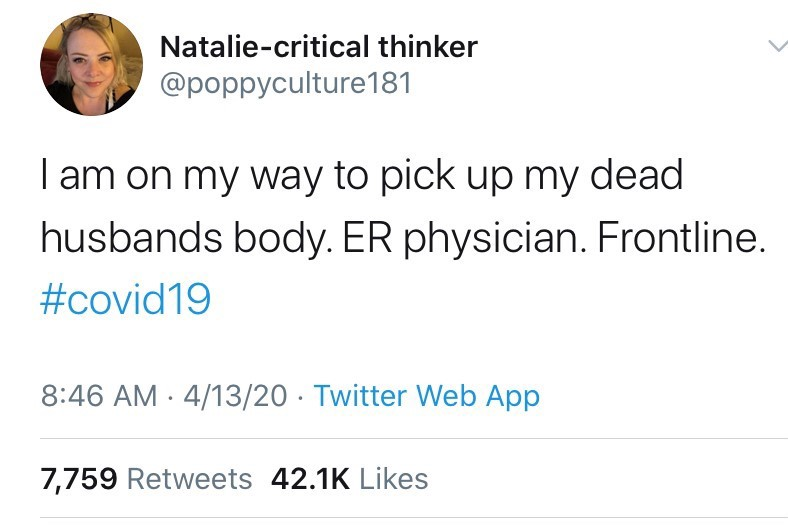
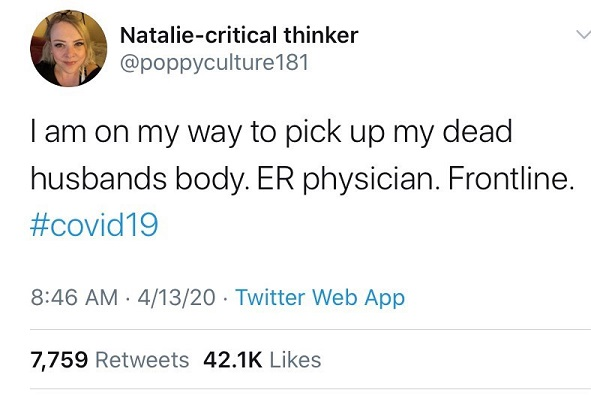
china

diff --git a/content/china/main.md b/content/china/main.md
@@ -1,0 +1,107 @@
++++
+# A Demo section created with the Blank widget.
+# Any elements can be added in the body: https://sourcethemes.com/academic/docs/writing-markdown-latex/
+# Add more sections by duplicating this file and customizing to your requirements.
+
+widget = "blank"  # See https://sourcethemes.com/academic/docs/page-builder/
+headless = true  # This file represents a page section.
+active = true  # Activate this widget? true/false
+weight = 15  # Order that this section will appear.
+
+# title = "Demos"
+# subtitle = ""
+
+[design]
+  # Choose how many columns the section has. Valid values: 1 or 2.
+  columns = "1"
+
+[design.background]
+  # Apply a background color, gradient, or image.
+  #   Uncomment (by removing `#`) an option to apply it.
+  #   Choose a light or dark text color by setting `text_color_light`.
+  #   Any HTML color name or Hex value is valid.
+
+  # Background color.
+  # color = "navy"
+
+  # Background gradient.
+  # gradient_start = "DeepSkyBlue"
+  # gradient_end = "SkyBlue"
+
+  # Background image.
+  # image = "headers/bubbles-wide.jpg"  # Name of image in `static/img/`.
+  # image_darken = 0.6  # Darken the image? Range 0-1 where 0 is transparent and 1 is opaque.
+  # image_size = "cover"  #  Options are `cover` (default), `contain`, or `actual` size.
+  # image_position = "center"  # Options include `left`, `center` (default), or `right`.
+  # image_parallax = true  # Use a fun parallax-like fixed background effect? true/false
+
+  # Text color (true=light or false=dark).
+  # text_color_light = true
+
+[design.spacing]
+  # Customize the section spacing. Order is top, right, bottom, left.
+  padding = ["0px", "0", "0px", "0"]
+
+[advanced]
+ # Custom CSS. 
+ css_style = ""
+
+ # CSS class.
+ css_class = ""
+
++++
+
+<figure style="margin: 0"><img src="beijing.jpg" /><figcaption style="text-align: right;">Beijing, China</figcaption></figure>
+
+# China Recommendations
+
+For anyone who wants to learn a bit more about China but doesn't know where to start, I've put together a few recommendations for books, movies, and other resources.
+
+Jump to:
+* <a href="#books" style="color:black">Books</a>
+* <a href="#movies" style="color:black">Movies</a>
+* <a href="#podcasts" style="color:black">Podcasts</a>
+* <a href="#online" style="color:black">Online Resources</a>
+
+&nbsp;  
+
+## <a name="books">Books</a>
+
+|                                                              |                                                              |
+| ------------------------------------------------------------ | ------------------------------------------------------------ |
+| <div style="width:150px"><a href="https://www.hup.harvard.edu/catalog.php?isbn=9780674725867" target="_blank"><img src="deng.jpg" alt="Deng Xiaoping" width="150px"/></a></div> | <a href="https://www.hup.harvard.edu/catalog.php?isbn=9780674725867" target="_blank" style="color:black"><h3>Deng Xiaoping and the Transformation of China</h3></a><p style="font-size:120%;">By Ezra Vogel (2011)<br/><br/>This biography of Deng Xiaoping offers one of the best accounts of China's economic and political transformation in the 1980s and 1990s. |
+| <a href="https://www.penguinrandomhouse.com/books/26101/factory-girls-by-leslie-t-chang/" target="_blank"><img src="factory.jpg" alt="Factory Girls" width="150px"/></a> | <a href="https://www.penguinrandomhouse.com/books/26101/factory-girls-by-leslie-t-chang/" target="_blank" style="color:black"><h3>Factory Girls: From Village to City in a Changing China</h3></a><p style="font-size:120%;">By Leslie Chang (2009)<br/><br/>If you're interested in understanding more about the lives and aspirations of the factory workers behind the "Made in China" label, this book based on extensive interviews with young women working in southern China offers one of the best accounts. |
+| <a href="https://www.penguinrandomhouse.com/books/161758/wealth-and-power-by-orville-schell-and-john-delury/" target="_blank"><img src="wealth.jpg" alt="Wealth and Power" width="150px"/> | <a href="https://www.penguinrandomhouse.com/books/161758/wealth-and-power-by-orville-schell-and-john-delury/" target="_blank" style="color:black"><h3>Wealth and Power: China's Long March to the Twenty-First Century</h3></a><p style="font-size:120%;">By Orville Schell and John Delury (2013)<br/><br/>A single powerful national narrative dominates in China: the world's greatest civilization humiliated by a century of foreign incursions finally returning to its rightful place as a global superpower. This book offers the best account of this narrative and how it fundamentally shapes the actions of the CCP leadership today. |
+| <a href="https://www.penguinrandomhouse.com/books/204464/china-in-ten-words-by-yu-hua-translated-by-allan-h-barr/" target="_blank"><img src="ten_words.jpg" alt="China in Ten Words" width="150px"/> | <a href="https://www.penguinrandomhouse.com/books/204464/china-in-ten-words-by-yu-hua-translated-by-allan-h-barr/" target="_blank" style="color:black"><h3>China in Ten Words</h3></a><p style="font-size:120%;">By Yu Hua (2010)<br/><br/>This short nonfiction book by one of China's most famous novelists offers a glimpse into the lived experiences of several formative episodes in the country's recent history, including the Cultural Revolution and Tiananmen Square. |
+| <a href="https://www.harpercollins.com/9780061998089/the-party/" target="_blank"><img src="party.jpg" alt="The Party" width="150px"/> | <a href="https://www.harpercollins.com/9780061998089/the-party/" target="_blank" style="color:black"><h3>The Party: The Secret World of China's Communist Rulers</h3></a><p style="font-size:120%;">By Richard McGregor (2010)<br/><br/>This is probably the single best book for anyone who wants to understand how the Chinese Communist Party works today. |
+
+&nbsp;  
+## <a name="movies">Movies</a>
+
+|                                                              |                                                              |
+| ------------------------------------------------------------ | ------------------------------------------------------------ |
+| <div style="width:150px"><a href="https://www.imdb.com/title/tt4056808/" target="_blank"><img src="mayor.jpg" alt="The Chinese Mayor" width="150px"/></a></div> | <a href="https://www.imdb.com/title/tt4056808/" target="_blank" style="color:black"><h3>The Chinese Mayor (2015)</h3></a><p style="font-size:120%;">An incredible documentary that follows the mayor of a Chinese city as he tries to launch an urban revitalization program and deals with grievances from local residents. |
+| <a href="https://www.imdb.com/title/tt1512201/" target="_blank"><img src="last_train.jpg" alt="Last Train Home" width="150px"/></a> | <a href="https://www.imdb.com/title/tt1512201/" target="_blank" style="color:black"><h3>Last Train Home (2009)</h3></a><p style="font-size:120%;">A moving documentary about the yearly return of millions of migrant workers by train during Chinese New Year. This movie shows the chaos and frustration of this annual ritual before China built its modern high-speed rail network as well as the inner turmoil within families over how to adapt to a rapidly changing economy. |
+| <a href="https://www.imdb.com/title/tt5039856/" target="_blank"><img src="bulkland.jpg" alt="Bulkland" width="150px"/> | <a href="https://www.imdb.com/title/tt5039856/" target="_blank" style="color:black"><h3>Bulkland (2017)</h3></a><p style="font-size:120%;">A great hour-long documentary about the famous commercial town of Yiwu where Chinese wholesalers market their goods to international buyers. This short film offers a glimpse into the world behind the "Made in China" label. |
+| <a href="https://www.imdb.com/title/tt0113147/" target="_blank"><img src="gate.jpg" alt="The Gate of Heavenly Peace" width="150px"/> | <a href="https://www.imdb.com/title/tt0113147/" target="_blank" style="color:black"><h3>The Gate of Heavenly Peace</h3></a><p style="font-size:120%;">This three-hour PBS Frontline documentary about the 1989 Tiananmen Square protests offers the best single portrait of this famous event. This movie does a great job of showing how the Tiananmen protests evolved and the interesting personal dynamics within the movement. |
+| <a href="https://www.imdb.com/title/tt9351980/" target="_blank"><img src="american.jpg" alt="American Factory" width="150px"/> | <a href="https://www.imdb.com/title/tt9351980/" target="_blank" style="color:black"><h3>American Factory (2019)</h3></a><p style="font-size:120%;">This two-hour documentary backed by Obama's production company tells the story of a new Chinese factory that opened in a shuttered GM plant in Ohio. The often comical culture clash between the Chinese and American workers says much about the broader challenges to mutual understanding between the two countries. The film won an Oscar for best feature documentary. |
+
+&nbsp;  
+## <a name="podcasts">Podcasts</a>
+
+|                                                              |                                                              |
+| ------------------------------------------------------------ | ------------------------------------------------------------ |
+| <div style="width:150px"><a href="https://supchina.com/series/sinica/" target="_blank"><img src="sinica.jpg" alt="Sinica" width="150px"/></a></div> | <a href="https://supchina.com/series/sinica/" target="_blank" style="color:black"><h3>Sinica</h3></a><p style="font-size:120%;">This conversational podcast is the go-to podcast on China today, covering a wide range of important cultura, political, and economic issues through interviews with journalists and researchers. |
+| <a href="https://supchina.com/series/china-econtalk/" target="_blank"><img src="econtalk.png" alt="China EconTalk" width="150px"/></a> | <a href="https://supchina.com/series/china-econtalk/" target="_blank" style="color:black"><h3>China EconTalk</h3></a><p style="font-size:120%;">Also a great conversational podcast focused on tech and economic issues in China. |
+| <a href="https://cscc.sas.upenn.edu/podcasts" target="_blank"><img src="upenn.jpg" alt="UPenn" width="150px"/> | <a href="https://cscc.sas.upenn.edu/podcasts" target="_blank" style="color:black"><h3>UPenn Center for the Study of Contemporary China Podcast</h3></a><p style="font-size:120%;">The best China podcast run by an academic institution featuring interviews and lectures with established China scholars. |
+| <a href="https://chinaafricaproject.com/category/podcast/" target="_blank"><img src="africa.png" alt="China in Africa" width="150px"/> | <a href="https://chinaafricaproject.com/category/podcast/" target="_blank" style="color:black"><h3>China in Africa</h3></a><p style="font-size:120%;">I regularly listen to this conversational podcast focused on China's growing involvement in Africa. The podcast includes interviews with many Chinese and African journalists and researchers. |
+
+
+&nbsp;  
+## <a name="online">Online Resources</a>
+
+|                                                              |                                                              |
+| ------------------------------------------------------------ | ------------------------------------------------------------ |
+| <div style="width:150px"></br></br><a href="https://www.scmp.com/" target="_blank"><img src="scmp.png" alt="South China Morning Post" width="150px"/></a></div> | <a href="https://www.scmp.com/" target="_blank" style="color:black"><h3>South China Morning Post</h3></a><p style="font-size:120%;">This established Hong Kong-based newspaper is the single best source for English-language news about China. Owned by Chinese tech company Alibaba, this newspaper is relatively unbiased in its coverage of news about mainland China. All of its articles are free online. |
+| <a href="https://www.caixinglobal.com/" target="_blank"></br></br><img src="caixin.png" alt="Caixin" width="150px"/></a> | <a href="https://www.caixinglobal.com/" target="_blank" style="color:black"><h3>Caixin</h3></a><p style="font-size:120%;">This mainland-based online news organization generally focuses on financial and business news but is famous for incredible investigative reporting on politically sensitive issues. Caixin offers English-language versions of its daily news articles and its weekly news magazine Caixin Weekly.  |
+| <a href="http://www.sixthtone.com/" target="_blank"><img src="sixth.png" alt="Sixth Tone" width="150px"/> | <a href="http://www.sixthtone.com/" target="_blank" style="color:black"><h3>Sixth Tone</h3></a><p style="font-size:120%;"> A Shanghai-based media organization that offers deeper perspectives on life and trends in China. |

diff --git a/content/post/twitter-bots/index.md b/content/post/twitter-bots/index.md
@@ -40,13 +40,13 @@ Key points:
 
 Recently, I had been noticing a number of posts on Twitter from users who had lost loved ones to COVID-19. One tweet that was “liked” by a doctor I follow caught my eye. This tweet is no longer available, but I managed to grab a screenshot:
 
-![](natalie.jpeg)
+<img src="natalie.jpeg" style="zoom:50%;" />
 
 Several things about this tweet seemed off. It seemed strange that someone would be on Twitter immediately after losing their husband. I also wondered whether a hospital would really allow someone to “pick up” the body of a family member who had just died of COVID-19. In general, the language simply sounded too crude.
 
 As I read through the comments, I found a few skeptics amidst the many expressions of condolence. Some people had gone through this user’s previous tweets and discovered strange inconsistencies. I also went back through her previous tweets and thought the English sounded strange. A number of users began to report her, and while I was still reading through her previous tweets Twitter suspended the account. I did manage to grab a screenshot of the Twitter profile:
 
-![](natalie2.png)
+<img src="natalie2.png" style="zoom:80%;" />
 
 Several shocking thoughts began to cross my mind. Had I stumbled across a bot or troll? Were they using fake coronavirus deaths to attract attention and gain followers? Could people really be stooping down to this level?
 
@@ -73,7 +73,7 @@ Earlier, this same user had posted this strange tweet:
 &nbsp;  
 It turns out [this Twitter account](https://twitter.com/KatherineM213) is entirely dedicated to promoting Beto O’Rourke, with thousands of retweets of campaign footage, news, and photos of the former presidential candidate:
 
-![](katherine.jpeg)
+<img src="katherine.jpeg" style="zoom:50%;" />
 
 &nbsp;  
 # Real vs. Fake Twitter Accounts

diff --git a/content/authors/admin/_index.md b/content/authors/admin/_index.md
@@ -50,4 +50,4 @@ user_groups:
 - Visitors
 ---
 
-Kyle Chan is a PhD student in the Sociology Department at Princeton University. His research focuses on state capacity in the developing world, particularly in China and India. His dissertation compares railway infrastructure development in contemporary China and India based on two years of fieldwork based in Beijing and Delhi. He received a master’s degree in political sociology from the London School of Economics and a bachelor’s degree in economics from the University of Chicago.
+Kyle Chan is a PhD student in the [Sociology Department at Princeton University](https://sociology.princeton.edu/people/kyle-chan). His research focuses on state capacity in the developing world, particularly in China and India. His dissertation compares railway infrastructure development in contemporary China and India based on two years of fieldwork based in Beijing and Delhi. He received a master’s degree in political sociology from the [London School of Economics](http://www.lse.ac.uk/) and a bachelor’s degree in economics from the [University of Chicago](https://www.uchicago.edu/).

diff --git a/content/photos/index.md b/content/photos/index.md
@@ -1,4 +1,4 @@
 ---
-title: An example title
+title: Fieldwork Photos
 type: "widget_page"  # Page type is a Widget Page
 ---

diff --git a/content/china/index.md b/content/china/index.md
@@ -1,4 +1,4 @@
 ---
-title: About
+title: China
 type: "widget_page"  # Page type is a Widget Page
 ---
